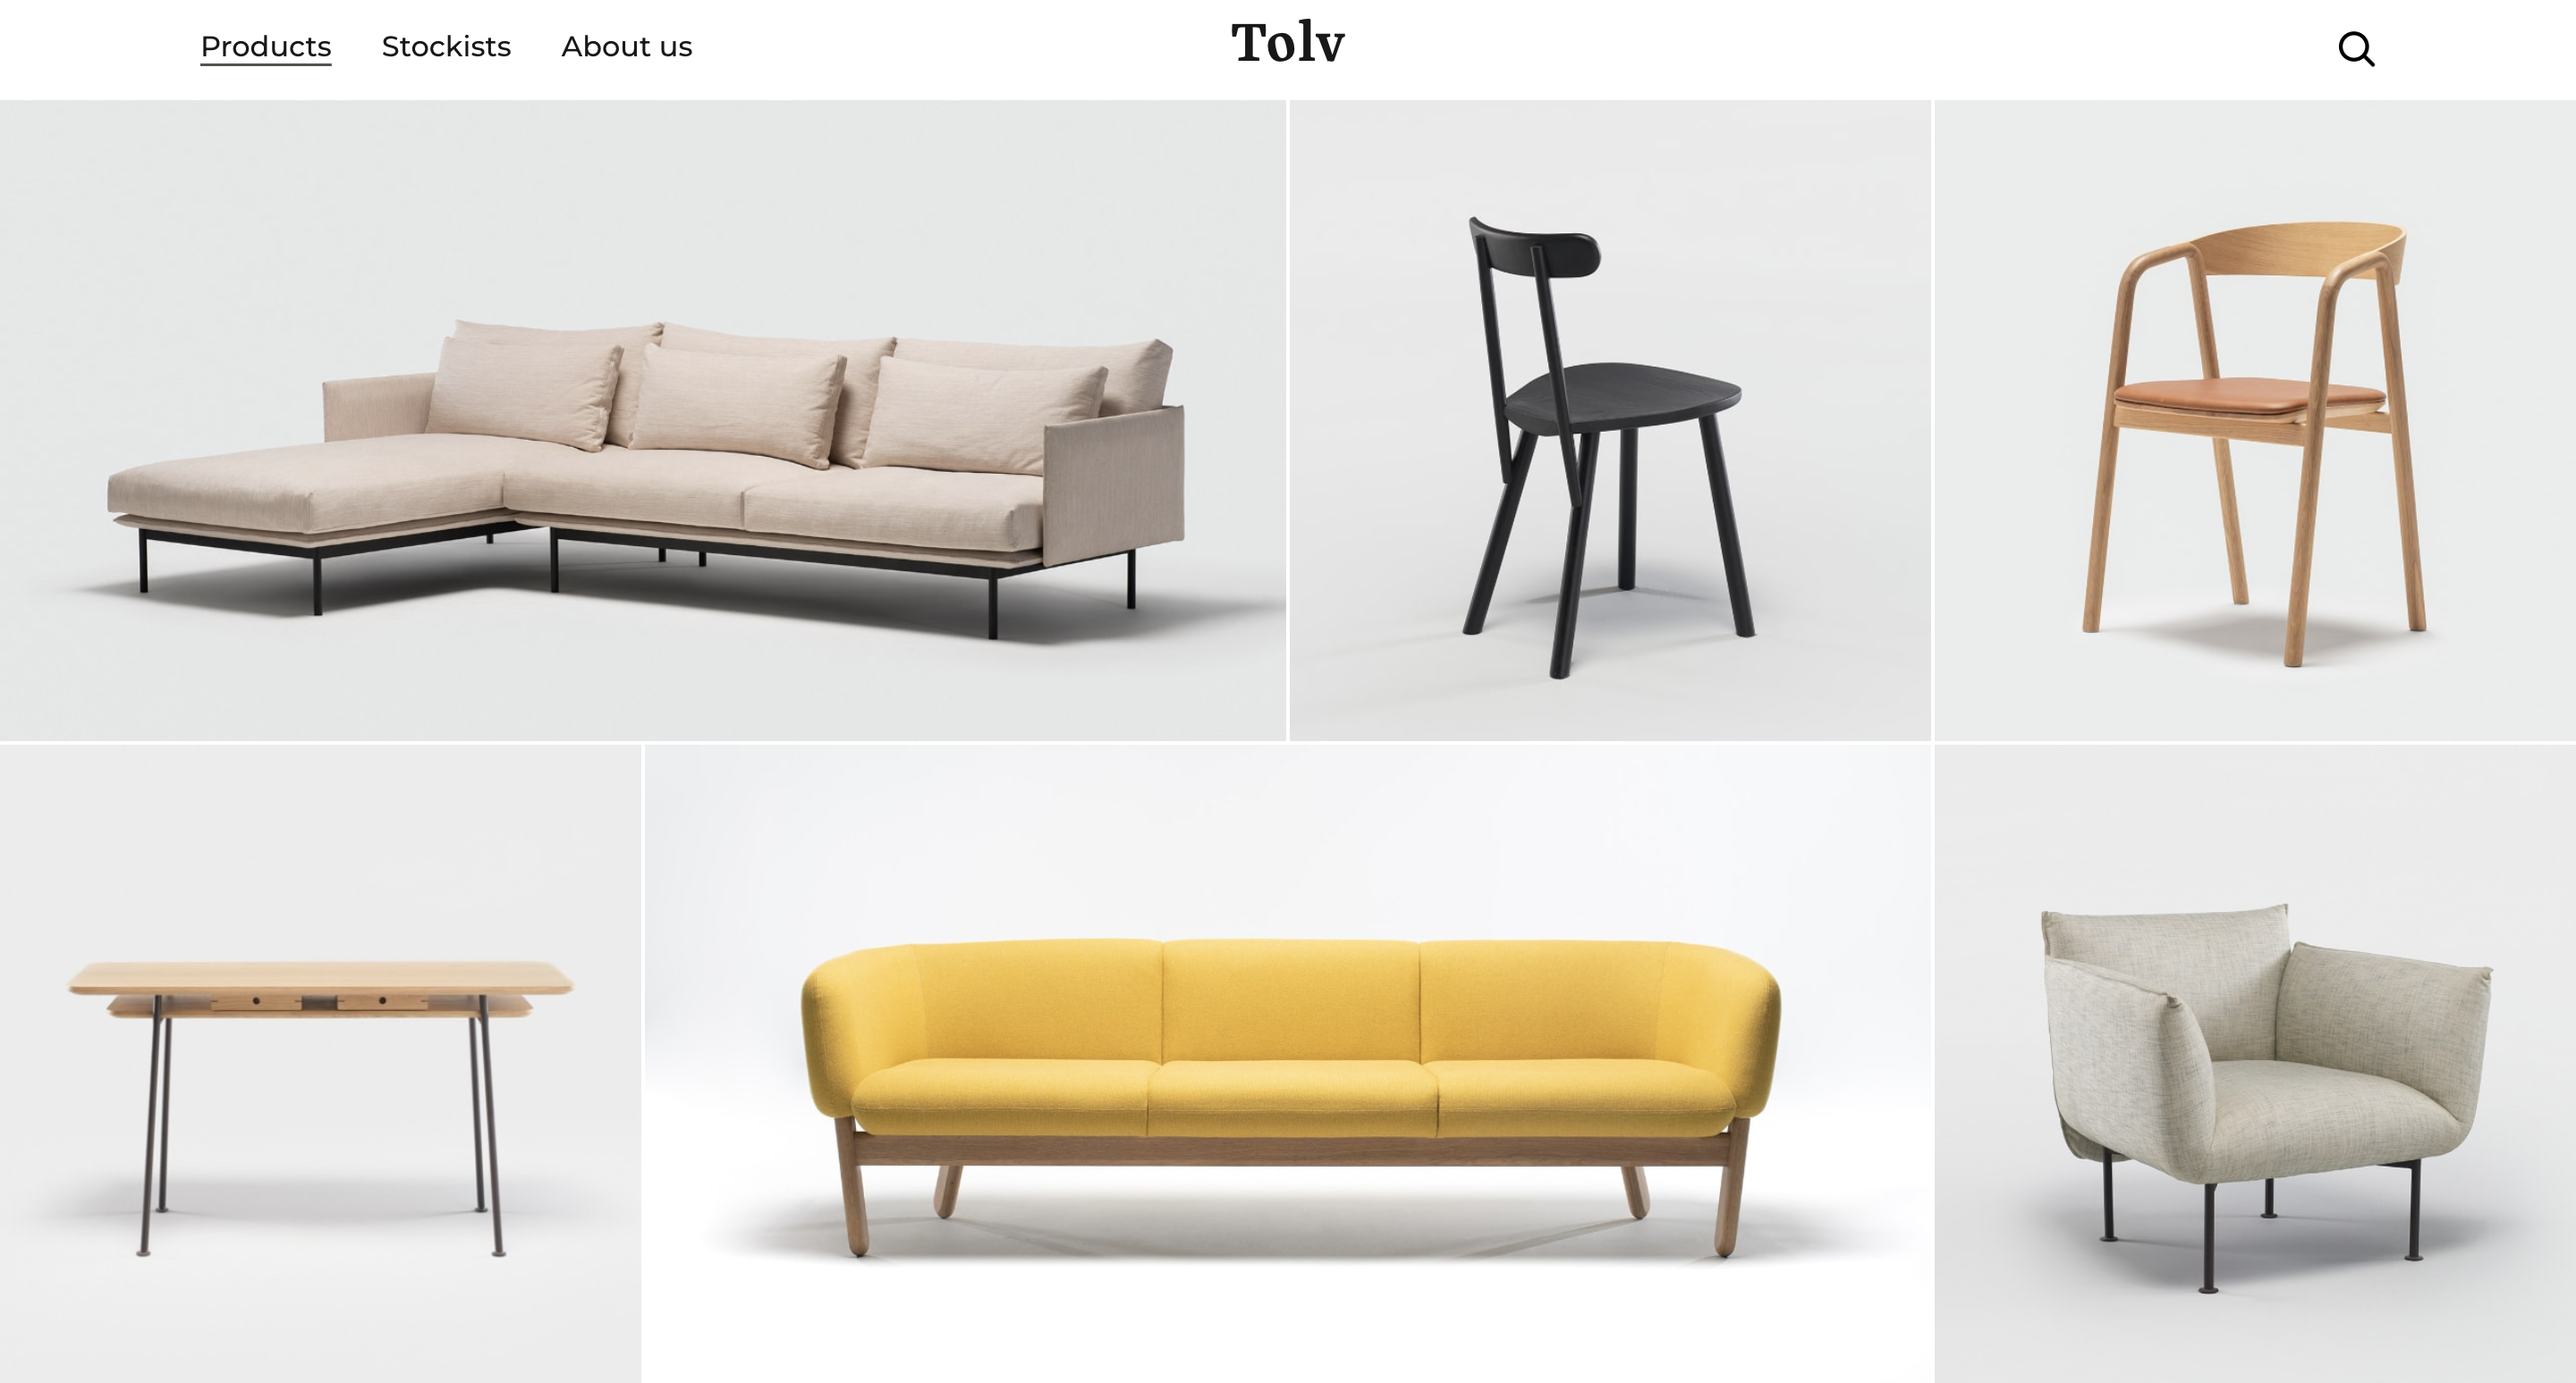
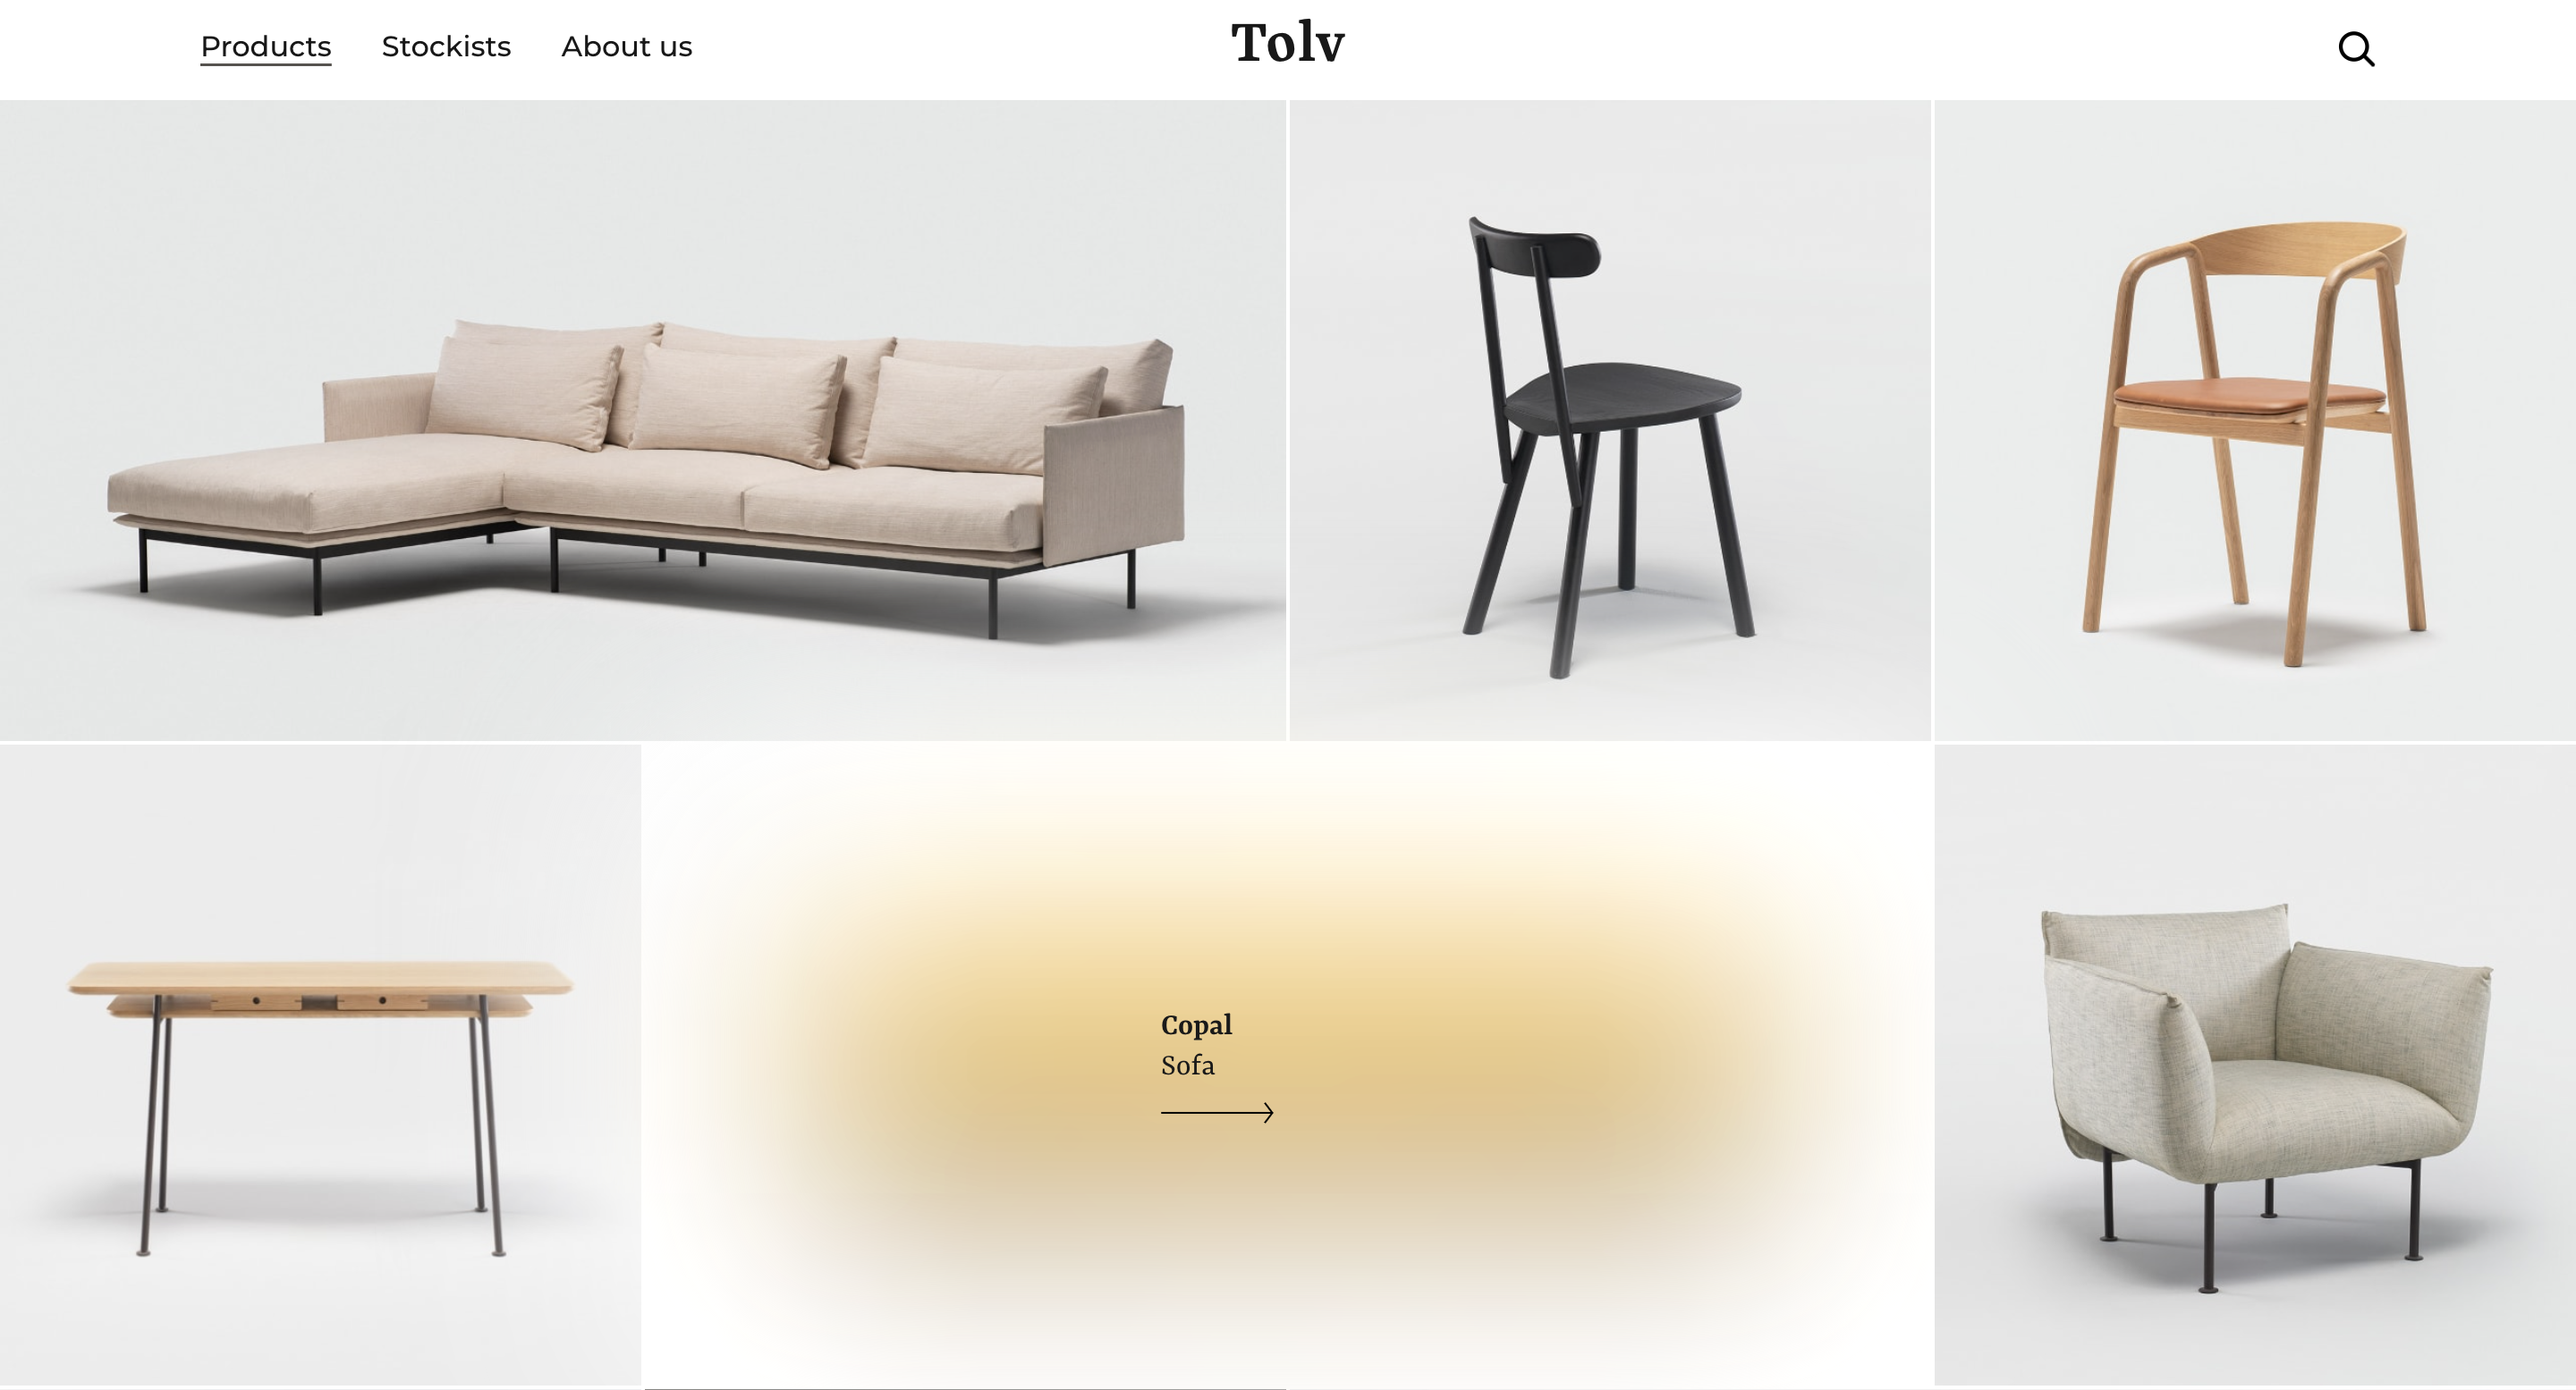
chore(readme): change preview image

diff --git a/src/index.css b/src/index.css
@@ -205,7 +205,7 @@ body {
   }
 
   .products > .product:hover > .image {
-    @apply blur-2xl brightness-105 duration-300 ease-in-out;
+    @apply blur-3xl brightness-105 duration-300 ease-in-out;
   }
 
   .products > .product:hover > .product-info {
